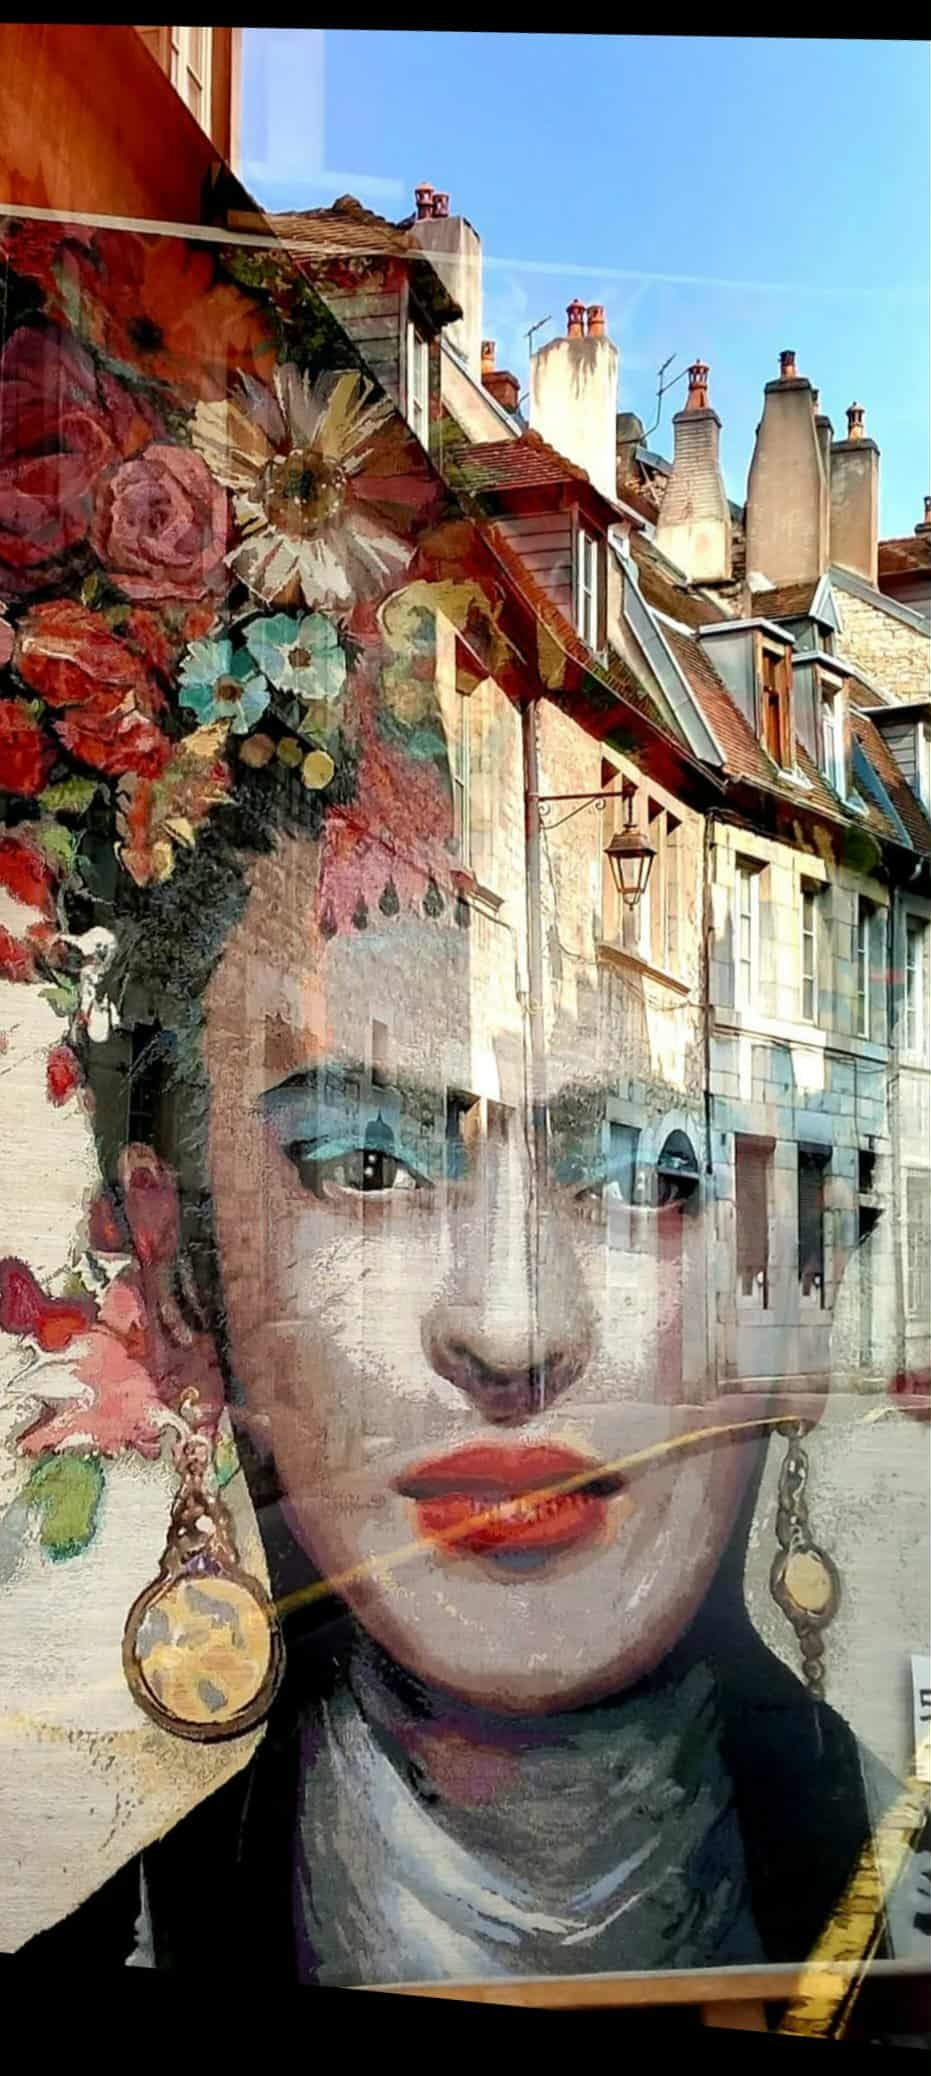
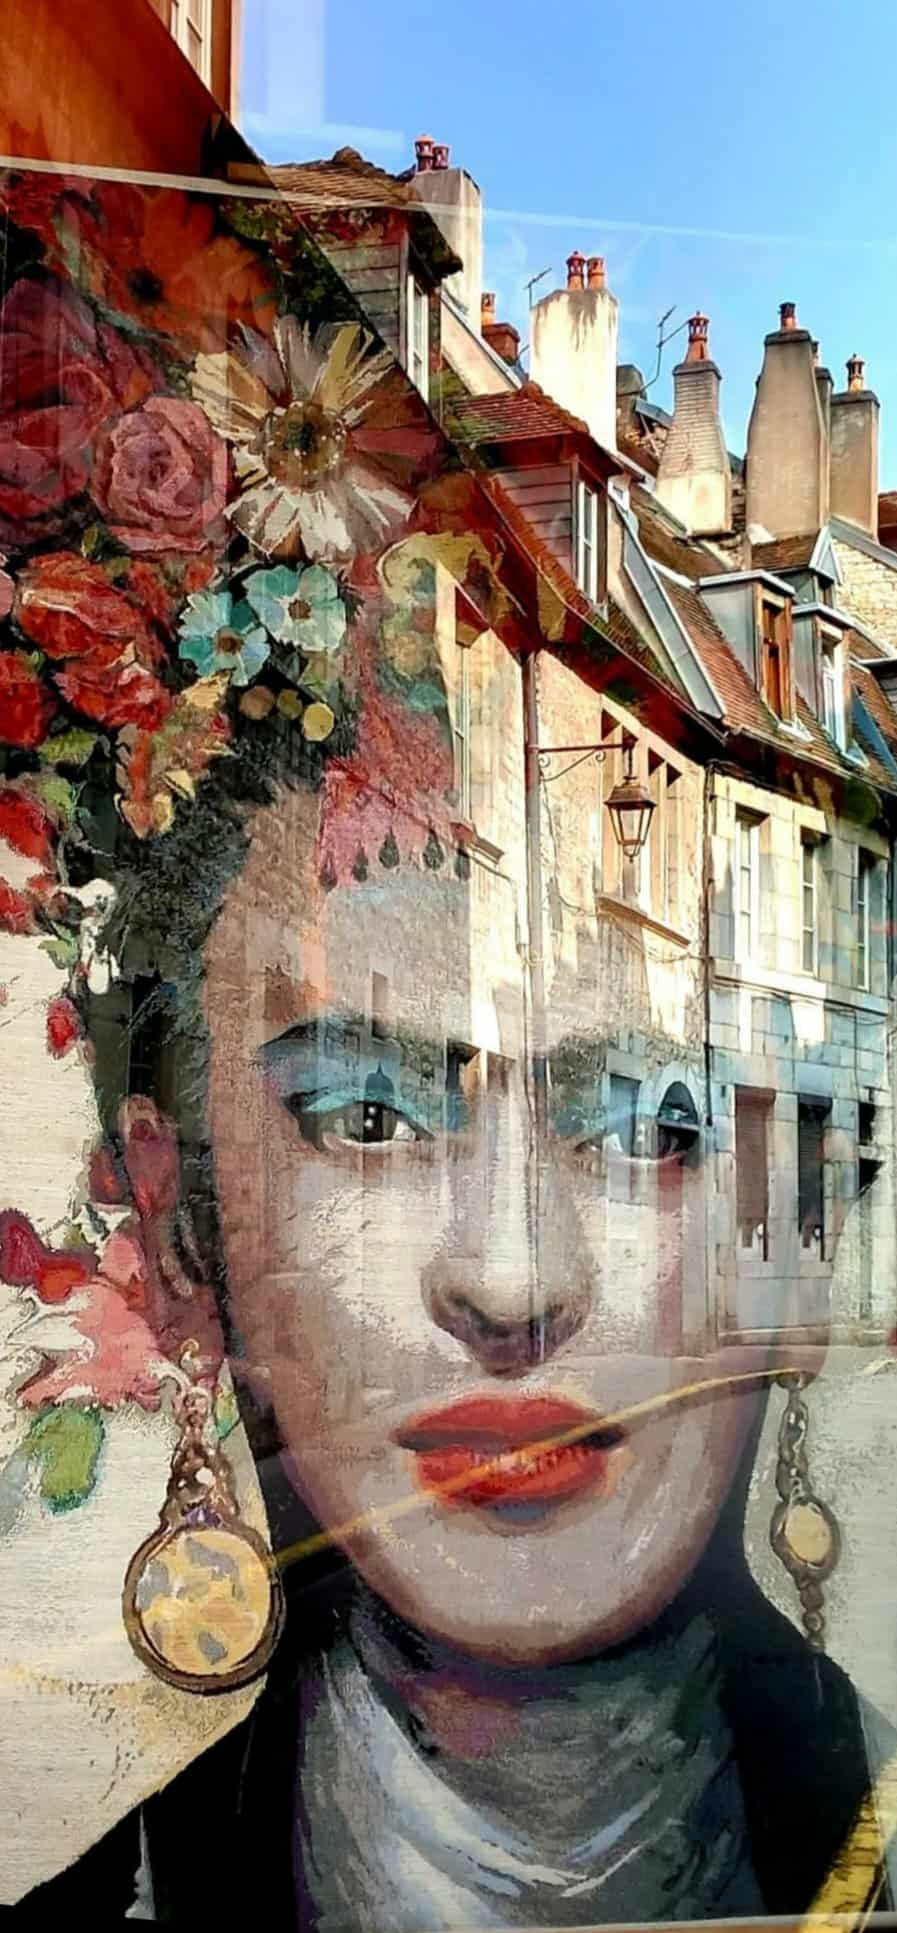
Accueil : titre des avis, promesse, recadrage du portrait

diff --git a/src/pages/Accueil/Accueil.module.scss b/src/pages/Accueil/Accueil.module.scss
@@ -213,6 +213,9 @@
 .avis {
   display: flex;
   flex-wrap: wrap;
+  align-items: stretch;
+  gap: 0 7%;
+  padding: 140px $marge-page;
   background-color: $fond;
 
   button:global(.lien-souligne) {
@@ -227,7 +230,8 @@
 
 .avisPhoto {
   flex: 0 0 34%;
-  min-height: 760px;
+  min-height: 640px;
+  overflow: hidden;
   background-color: $surface;
 
   img {
@@ -235,18 +239,17 @@
     width: 100%;
     height: 100%;
     object-fit: cover;
-    object-position: 50% 45%;
+    object-position: 50% 62%;
   }
 }
 
 .avisContenu {
   flex: 1;
   min-width: 0;
-  padding: 120px 7%;
   display: flex;
   flex-direction: column;
   justify-content: center;
-  gap: 64px;
+  gap: 56px;
 }
 
 .avisResume {
@@ -399,8 +402,7 @@
 
 .avisFormulaire {
   flex: 0 0 100%;
-  padding: 0 $marge-page 80px;
-  box-sizing: border-box;
+  padding-top: 56px;
   display: flex;
   justify-content: center;
 
@@ -508,14 +510,18 @@
     white-space: normal;
   }
 
+  .avis {
+    padding: 100px $marge-page;
+    gap: 56px;
+  }
+
   .avisPhoto {
     flex: 0 0 100%;
     min-height: 0;
-    height: 420px;
+    height: 460px;
   }
 
   .avisContenu {
-    padding: 80px $marge-page;
     gap: 48px;
   }
 

diff --git a/src/pages/Accueil/Accueil.js b/src/pages/Accueil/Accueil.js
@@ -150,7 +150,7 @@ function Accueil() {
           <span className='etiquette'>Marli</span>
           <span className='filet'></span>
           <p>Nous souhaitons faciliter vos projets immobiliers de leur conception à leur aboutissement.</p>
-          <p className={styles.promesseFin}>Votre satisfaction sera notre première gratitude.</p>
+          <p className={styles.promesseFin}>Votre satisfaction est notre première gratitude.</p>
         </Apparition>
       </section>
 
@@ -211,7 +211,7 @@ function Accueil() {
         <div className={styles.avisContenu}>
         <div className={styles.avisResume}>
           <span className='etiquette'>Parole libre</span>
-          <h2 className='titre-grand'>Ils nous ont confié leur histoire</h2>
+          <h2 className='titre-grand'>Leur histoire avec Marli</h2>
           {avis.length > 0 && (
             <div className={styles.avisNote}>
               <span className={styles.avisMoyenne}>{noteMoyenne}</span>
